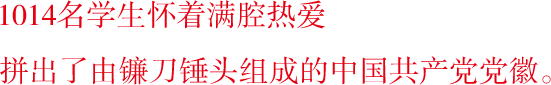
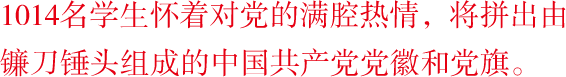
修改文字

diff --git a/src/components/Page2/Page2.vue b/src/components/Page2/Page2.vue
@@ -111,7 +111,7 @@ $color = #e60012;
       top: 480px;
       left: 0;
       width: 100%;
-      height: 164px;
+      height: 209px;
       background: url('./text.png') center center no-repeat;
       background-size: contain;
     }

diff --git a/src/components/Page1/Page1.vue b/src/components/Page1/Page1.vue
@@ -129,7 +129,7 @@ $color = #e60012;
       top: 570px;
       left: 0;
       width: 100%;
-      height: 85px;
+      height: 77px;
       background: url('./text.png') center center no-repeat;
       background-size: contain;
     }
